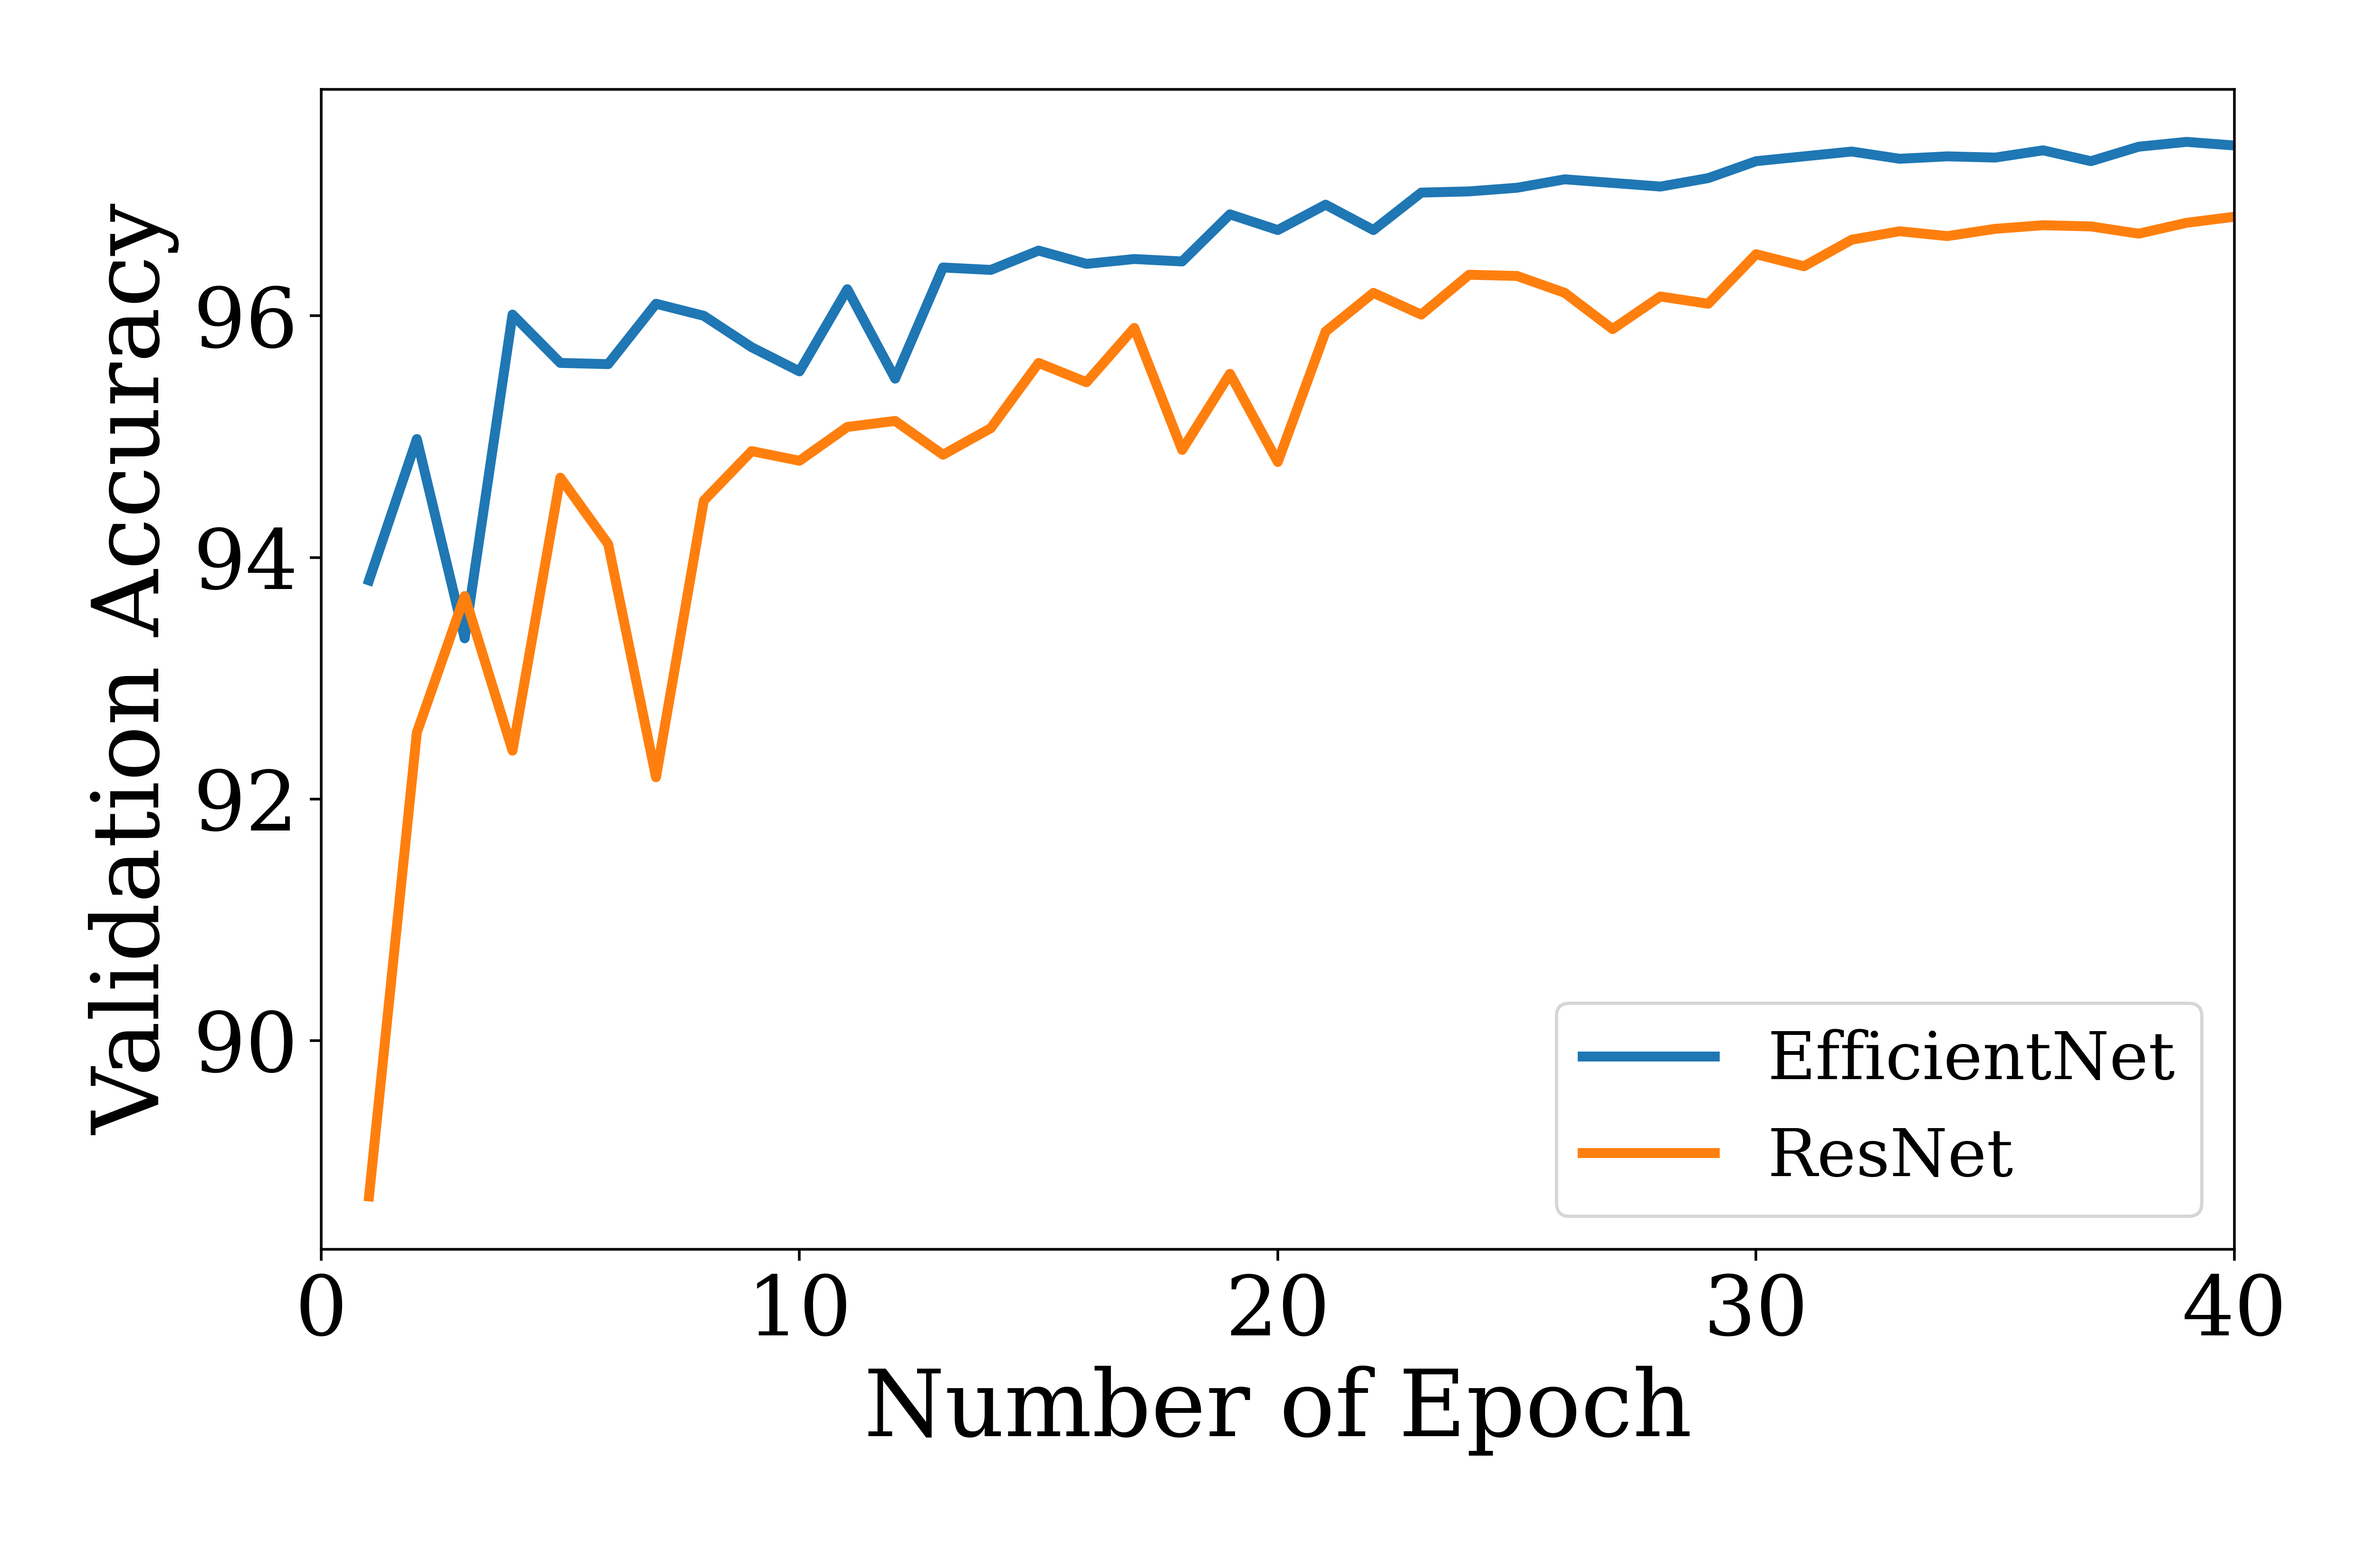
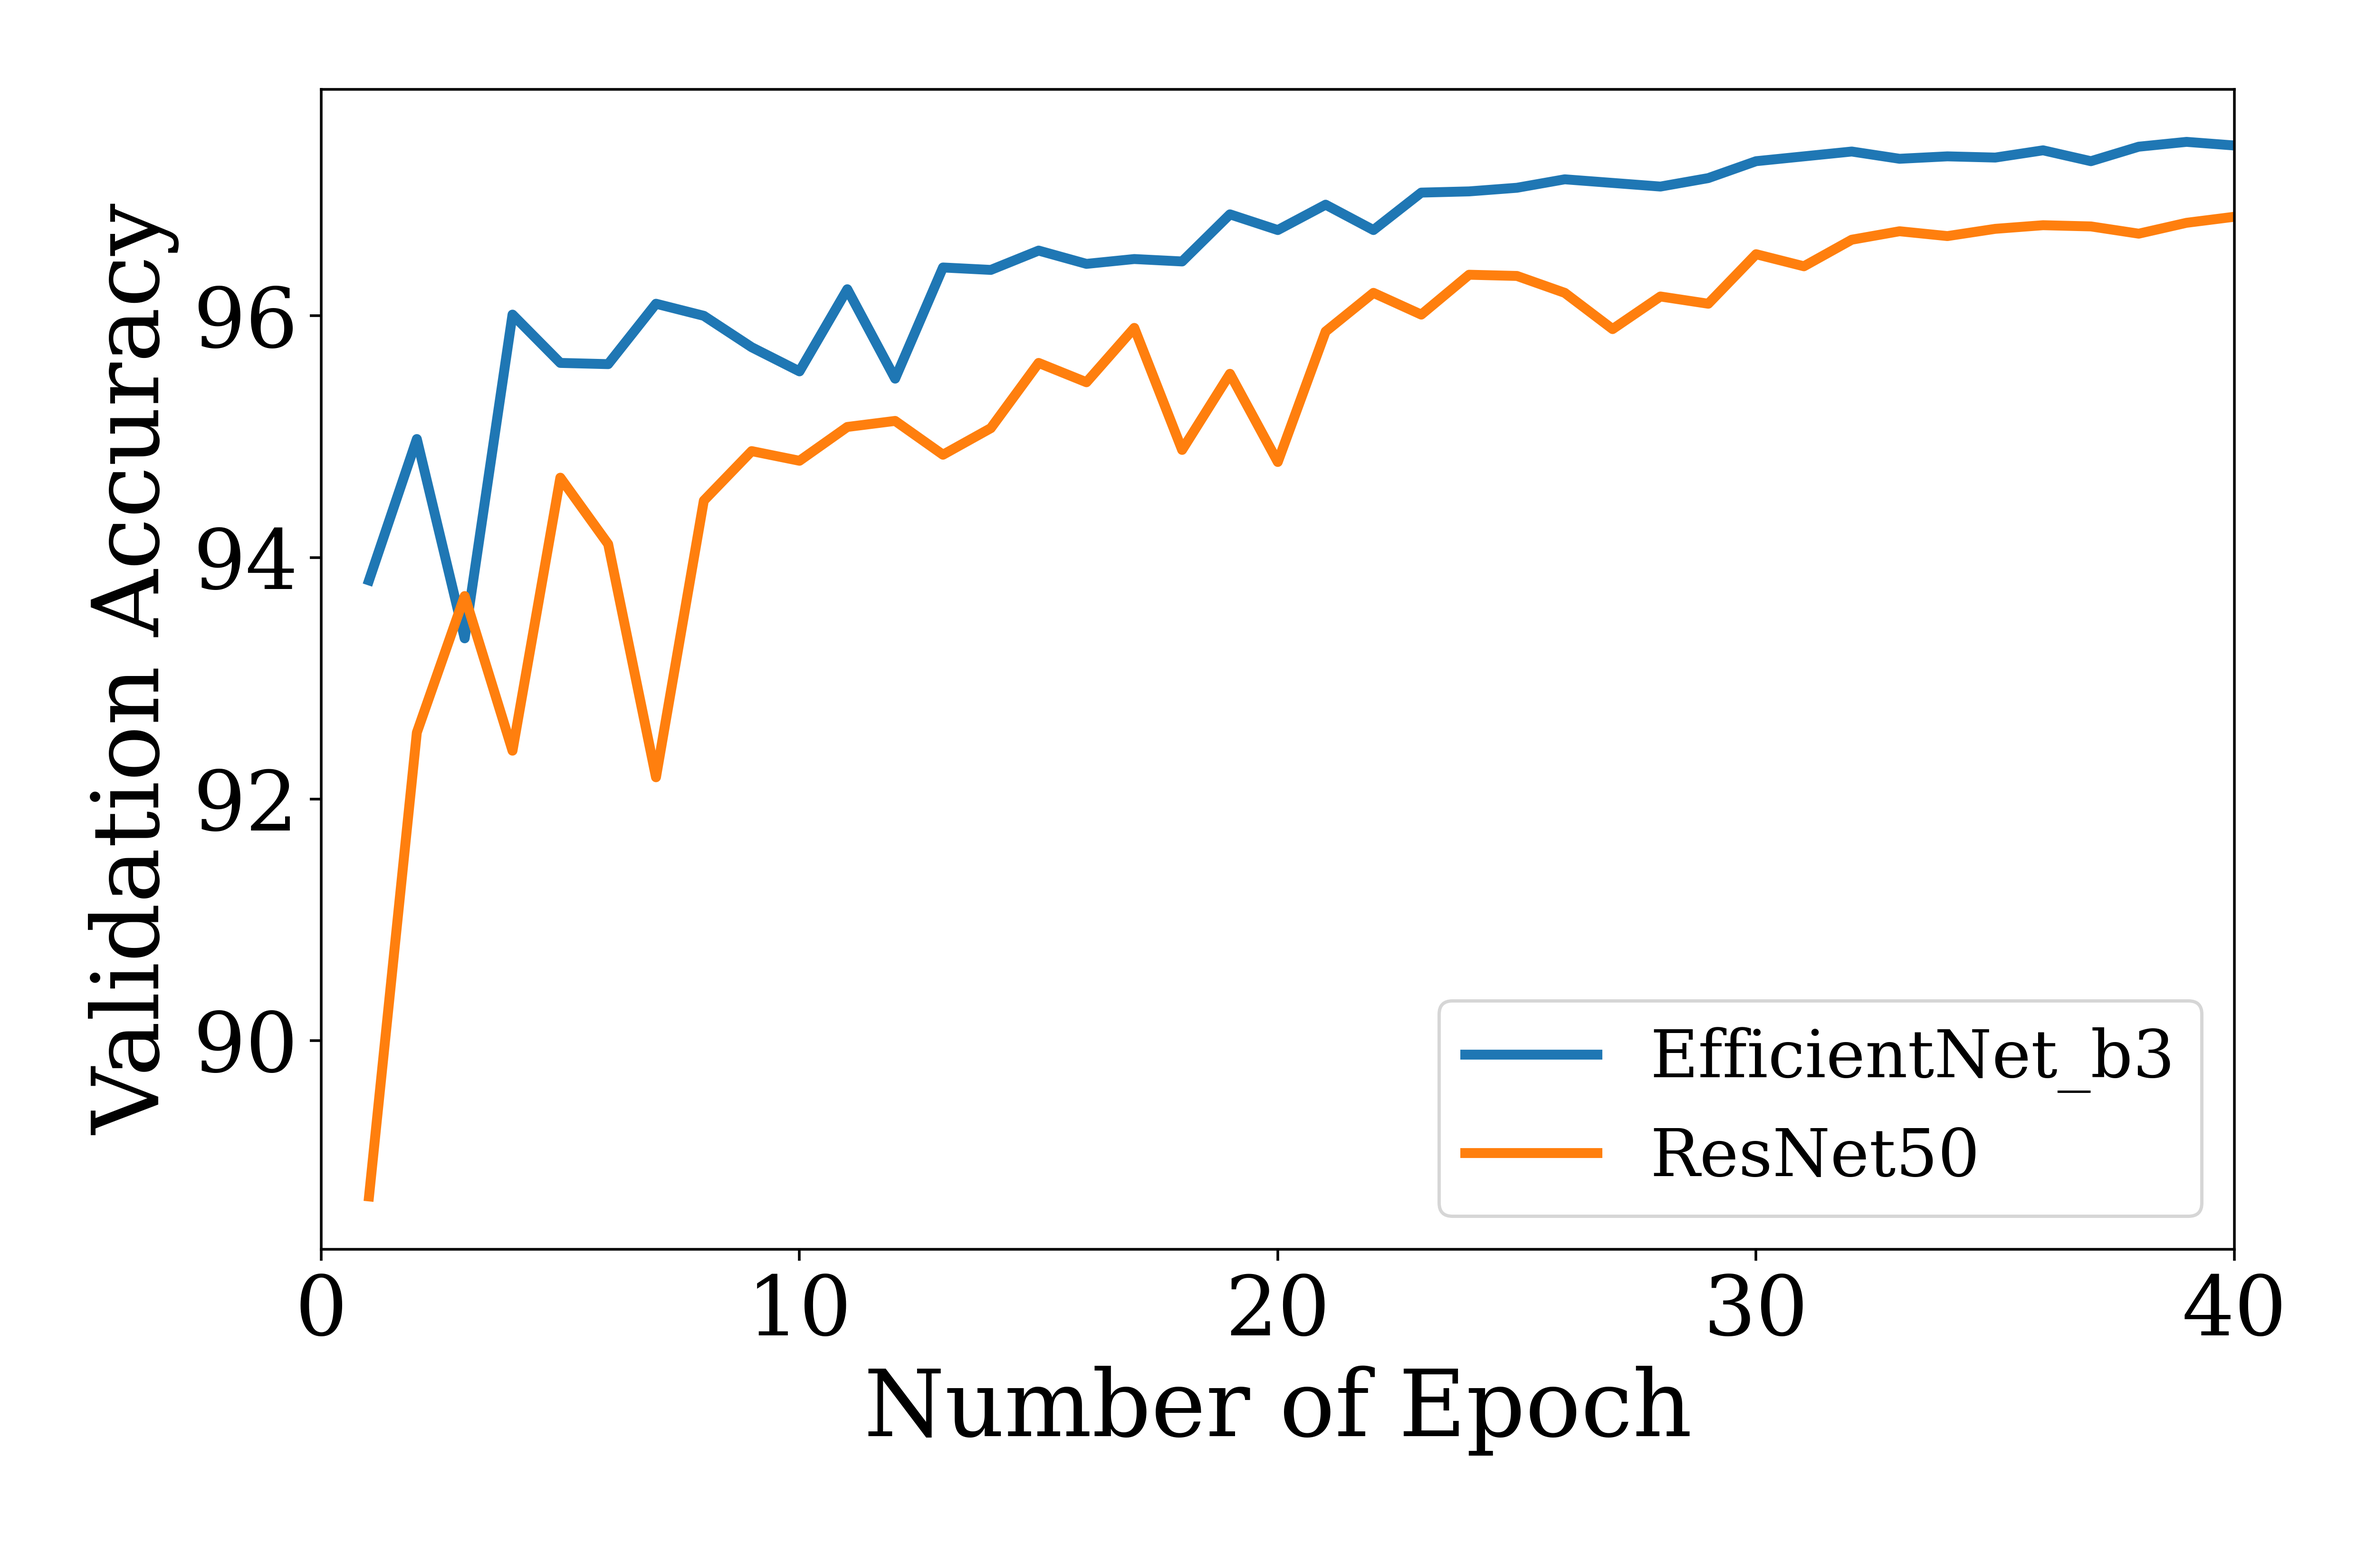
update

Changed region(s): [[0.624, 0.6215, 0.9048, 0.7769], [0.624, 0.7148, 0.6552, 0.7769]]

diff --git a/plot.py b/plot.py
@@ -59,8 +59,8 @@ plt.savefig("./images/loss_v3.png")
 
 ax.clear()
 
-ax.plot(x, val_accu_eff, label="EfficientNet", lw=3)
-ax.plot(x, val_accu_res, label="ResNet", lw=3)
+ax.plot(x, val_accu_eff, label="EfficientNet_b3", lw=3)
+ax.plot(x, val_accu_res, label="ResNet50", lw=3)
 
 ax.set_xlabel("Number of Epoch", size=28)
 ax.set_ylabel("Validation Accuracy", size=28)
@@ -73,8 +73,8 @@ plt.savefig("./images/accu_v3.png")
 
 ax.clear()
 
-plt.plot(x, val_f1_eff, label="EfficientNet", lw=3)
-plt.plot(x, val_f1_res, label="ResNet", lw=3)
+plt.plot(x, val_f1_eff, label="EfficientNet_b3", lw=3)
+plt.plot(x, val_f1_res, label="ResNet50", lw=3)
 
 ax.set_xlabel("Number of Epoch", size=28)
 ax.set_ylabel("F1-Score", size=28)
